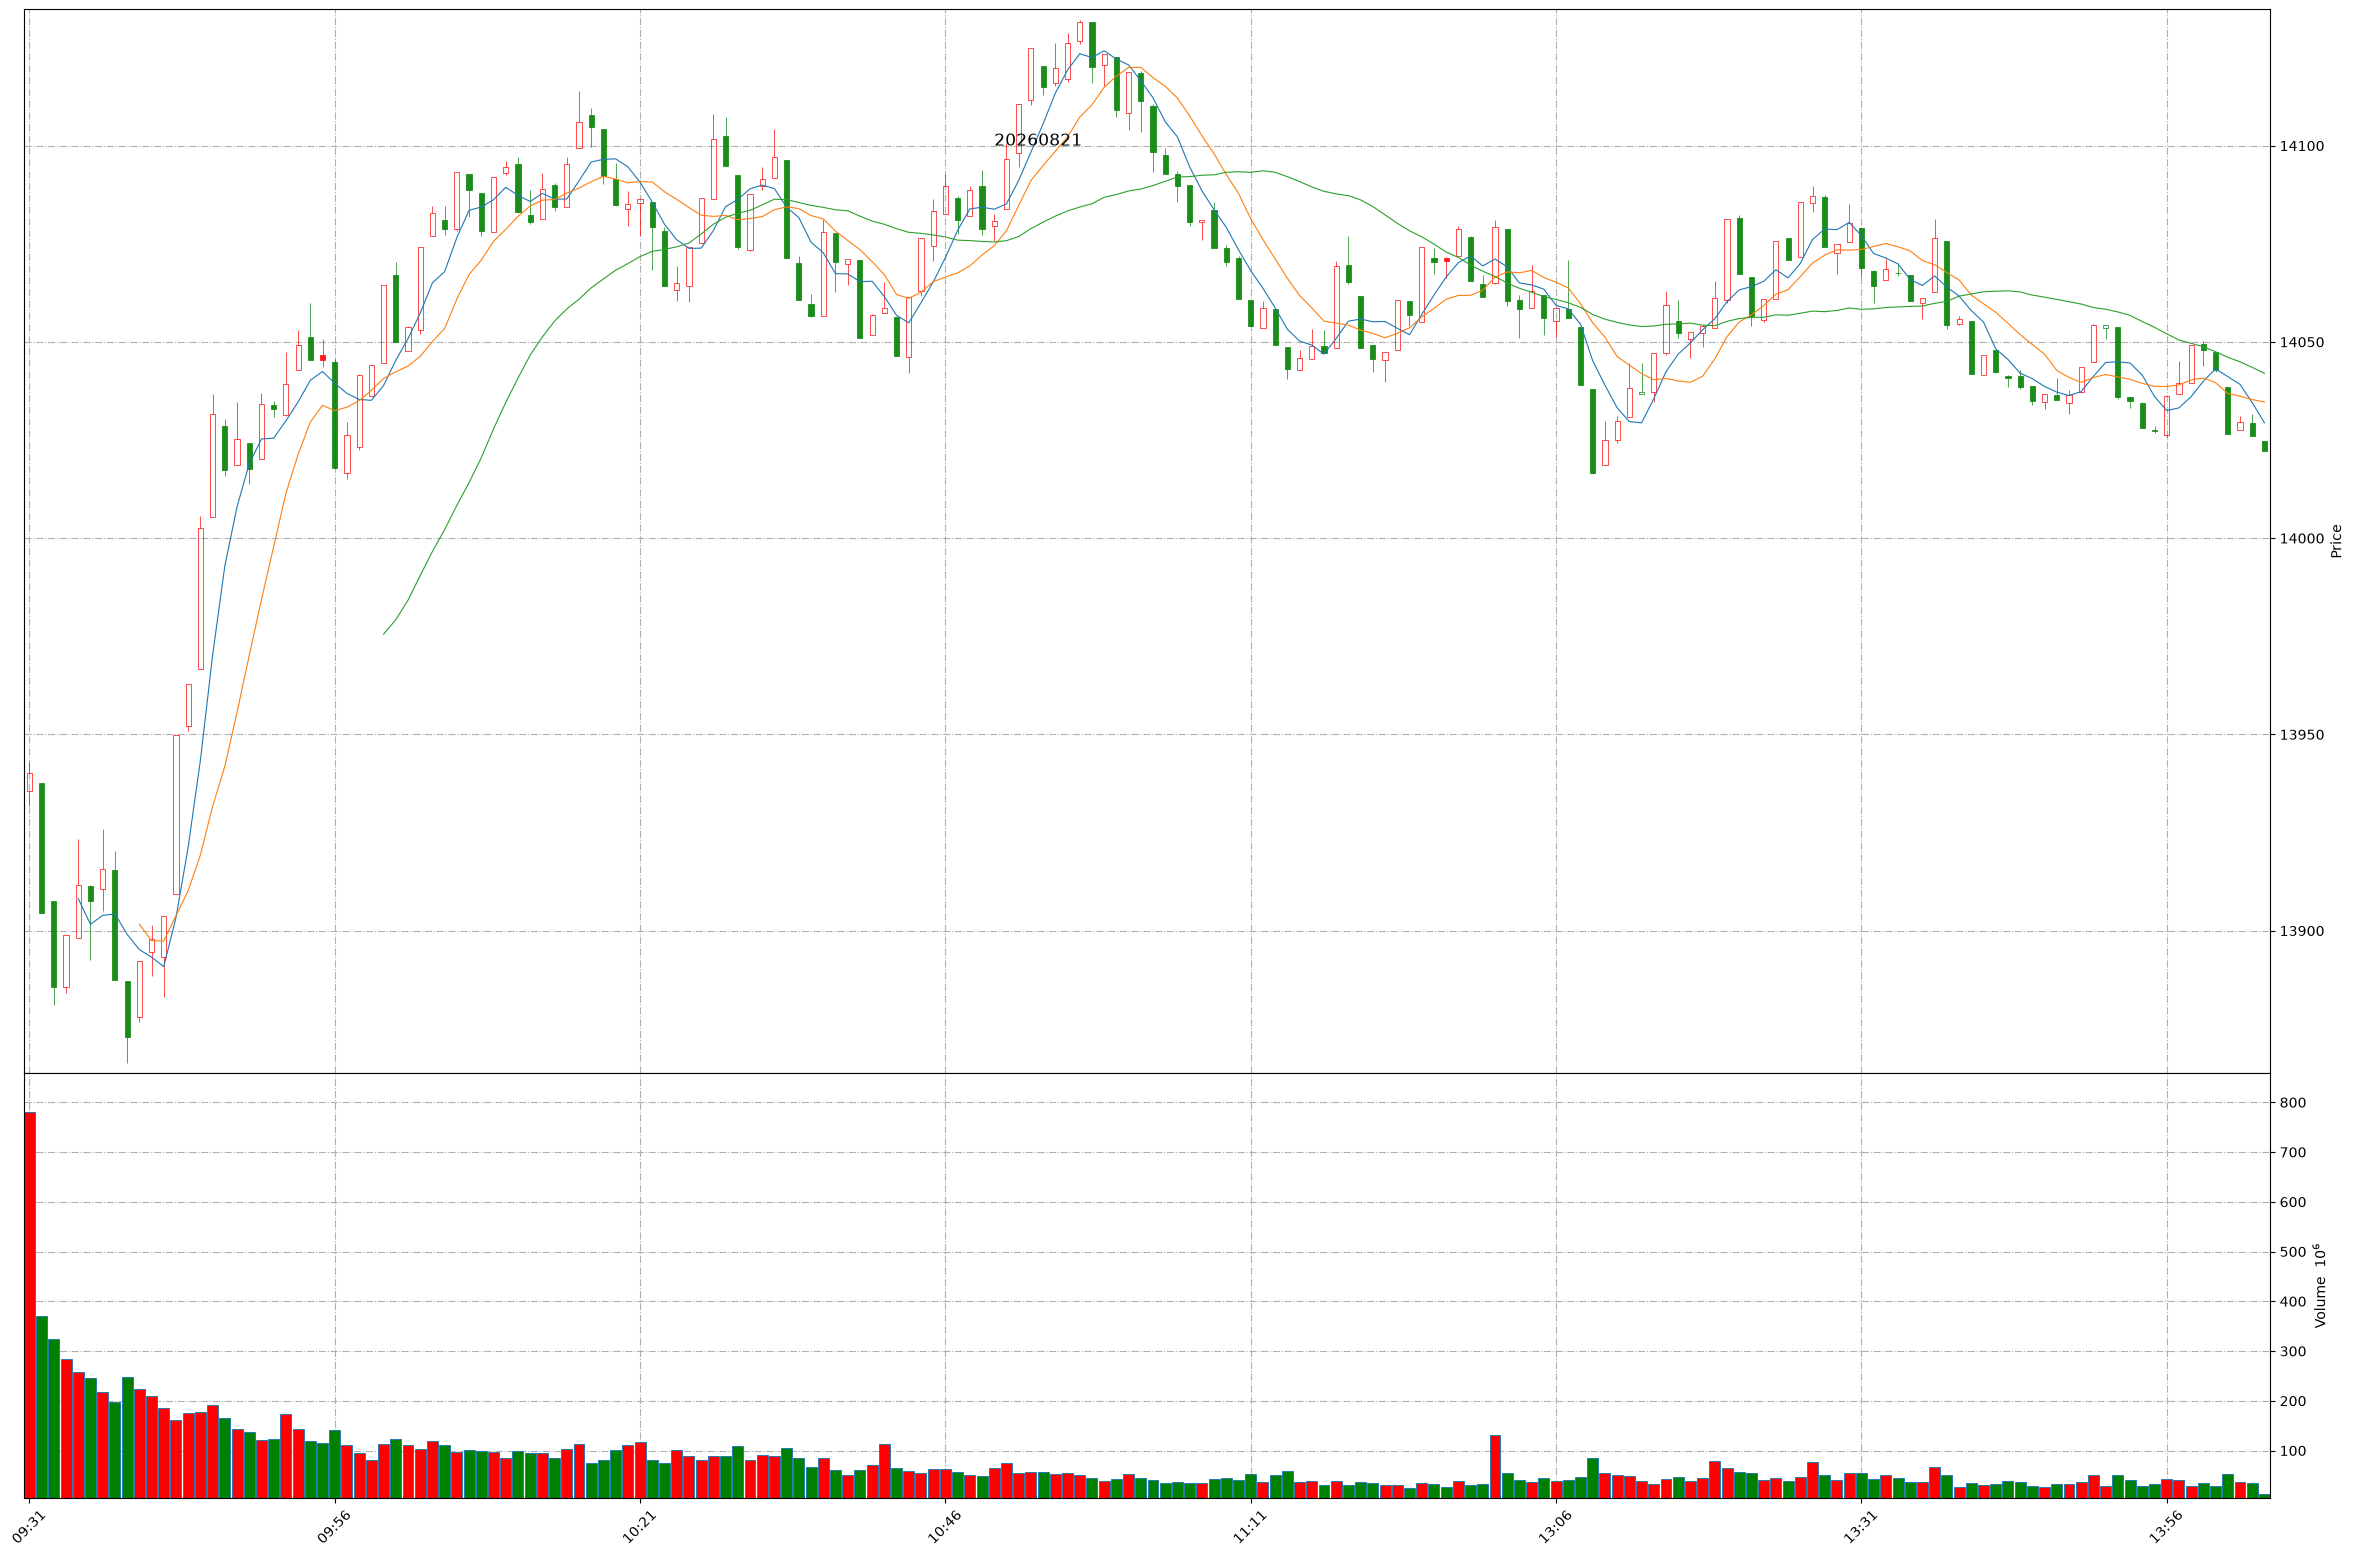
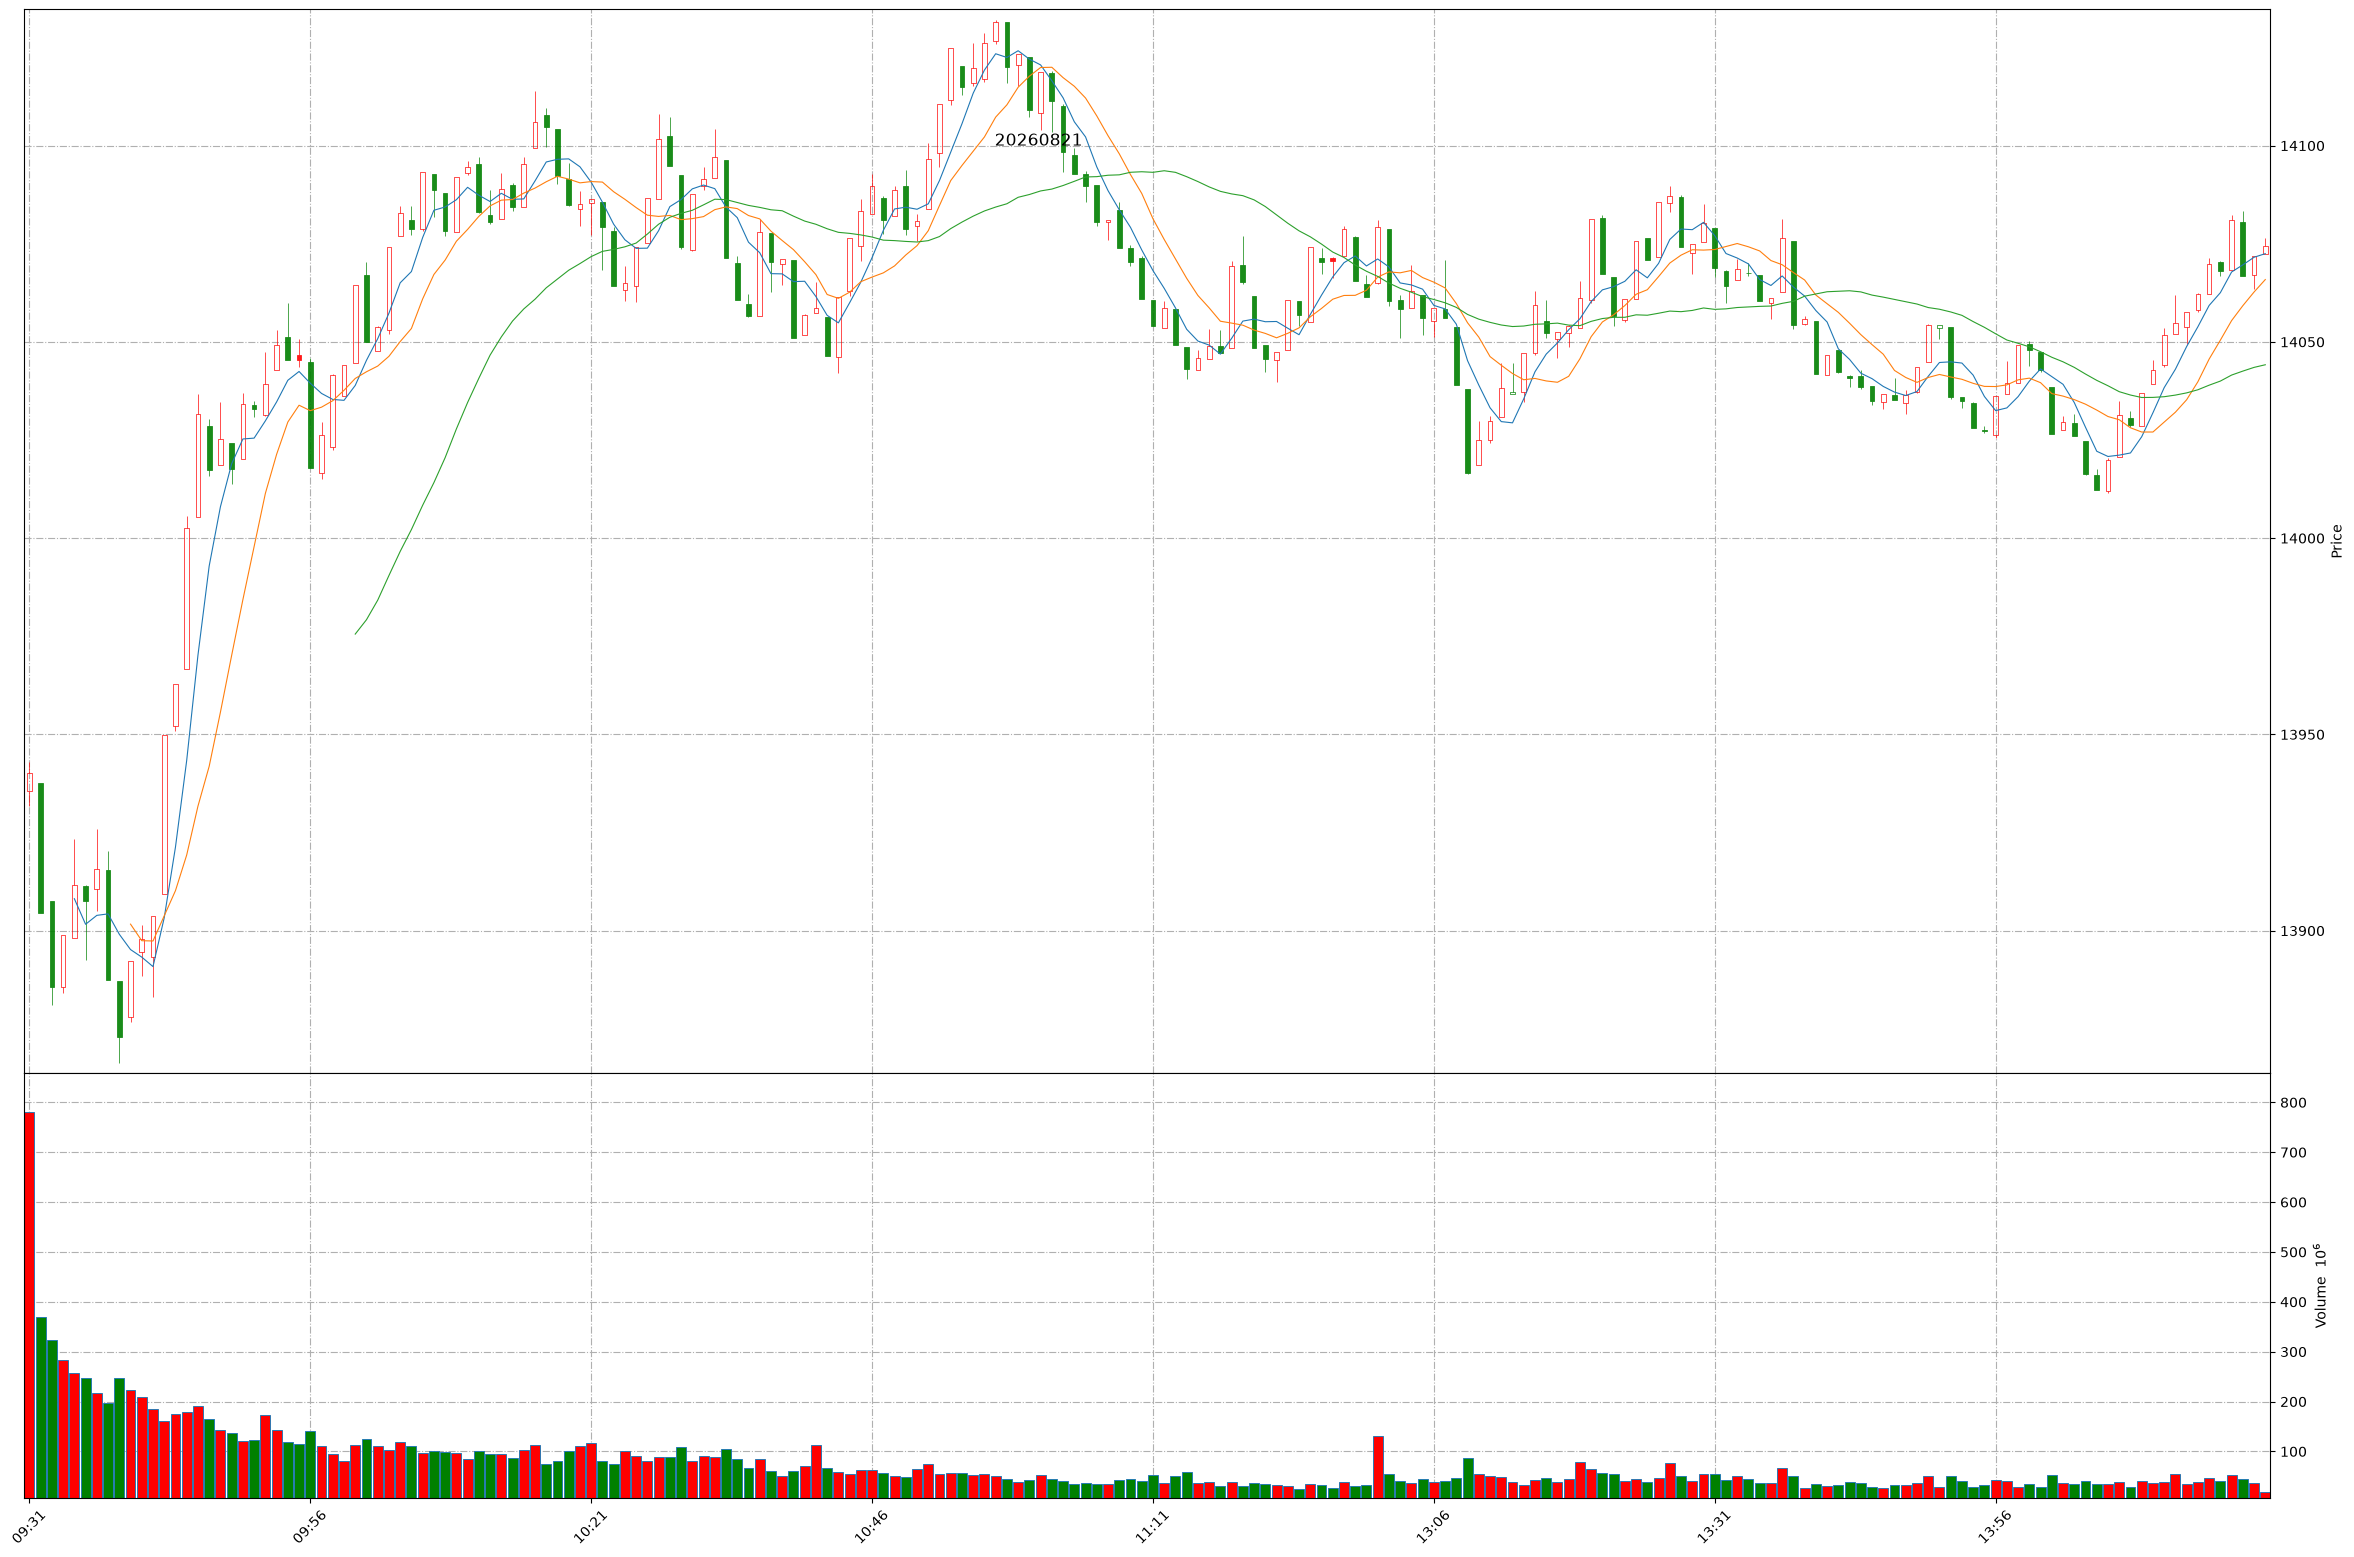
Github action update at 2026-08-21 14:19:43.

diff --git a/README.md b/README.md
@@ -1,11 +1,11 @@
 
 # Daily-A-share-market-quotes 每日 A 股指数（5min 更新）- 20260821
 
-### 上证指数 20260821 14:3
+### 上证指数 20260821 14:19
 ![](./fig/2026/8/20260821-sh000001.png)
 
-### 深证成指 20260821 14:3
+### 深证成指 20260821 14:19
 ![](./fig/2026/8/20260821-sz399001.png)
 
-### 北证50 20260821 14:3
+### 北证50 20260821 14:19
 ![](./fig/2026/8/20260821-bj899050.png)
